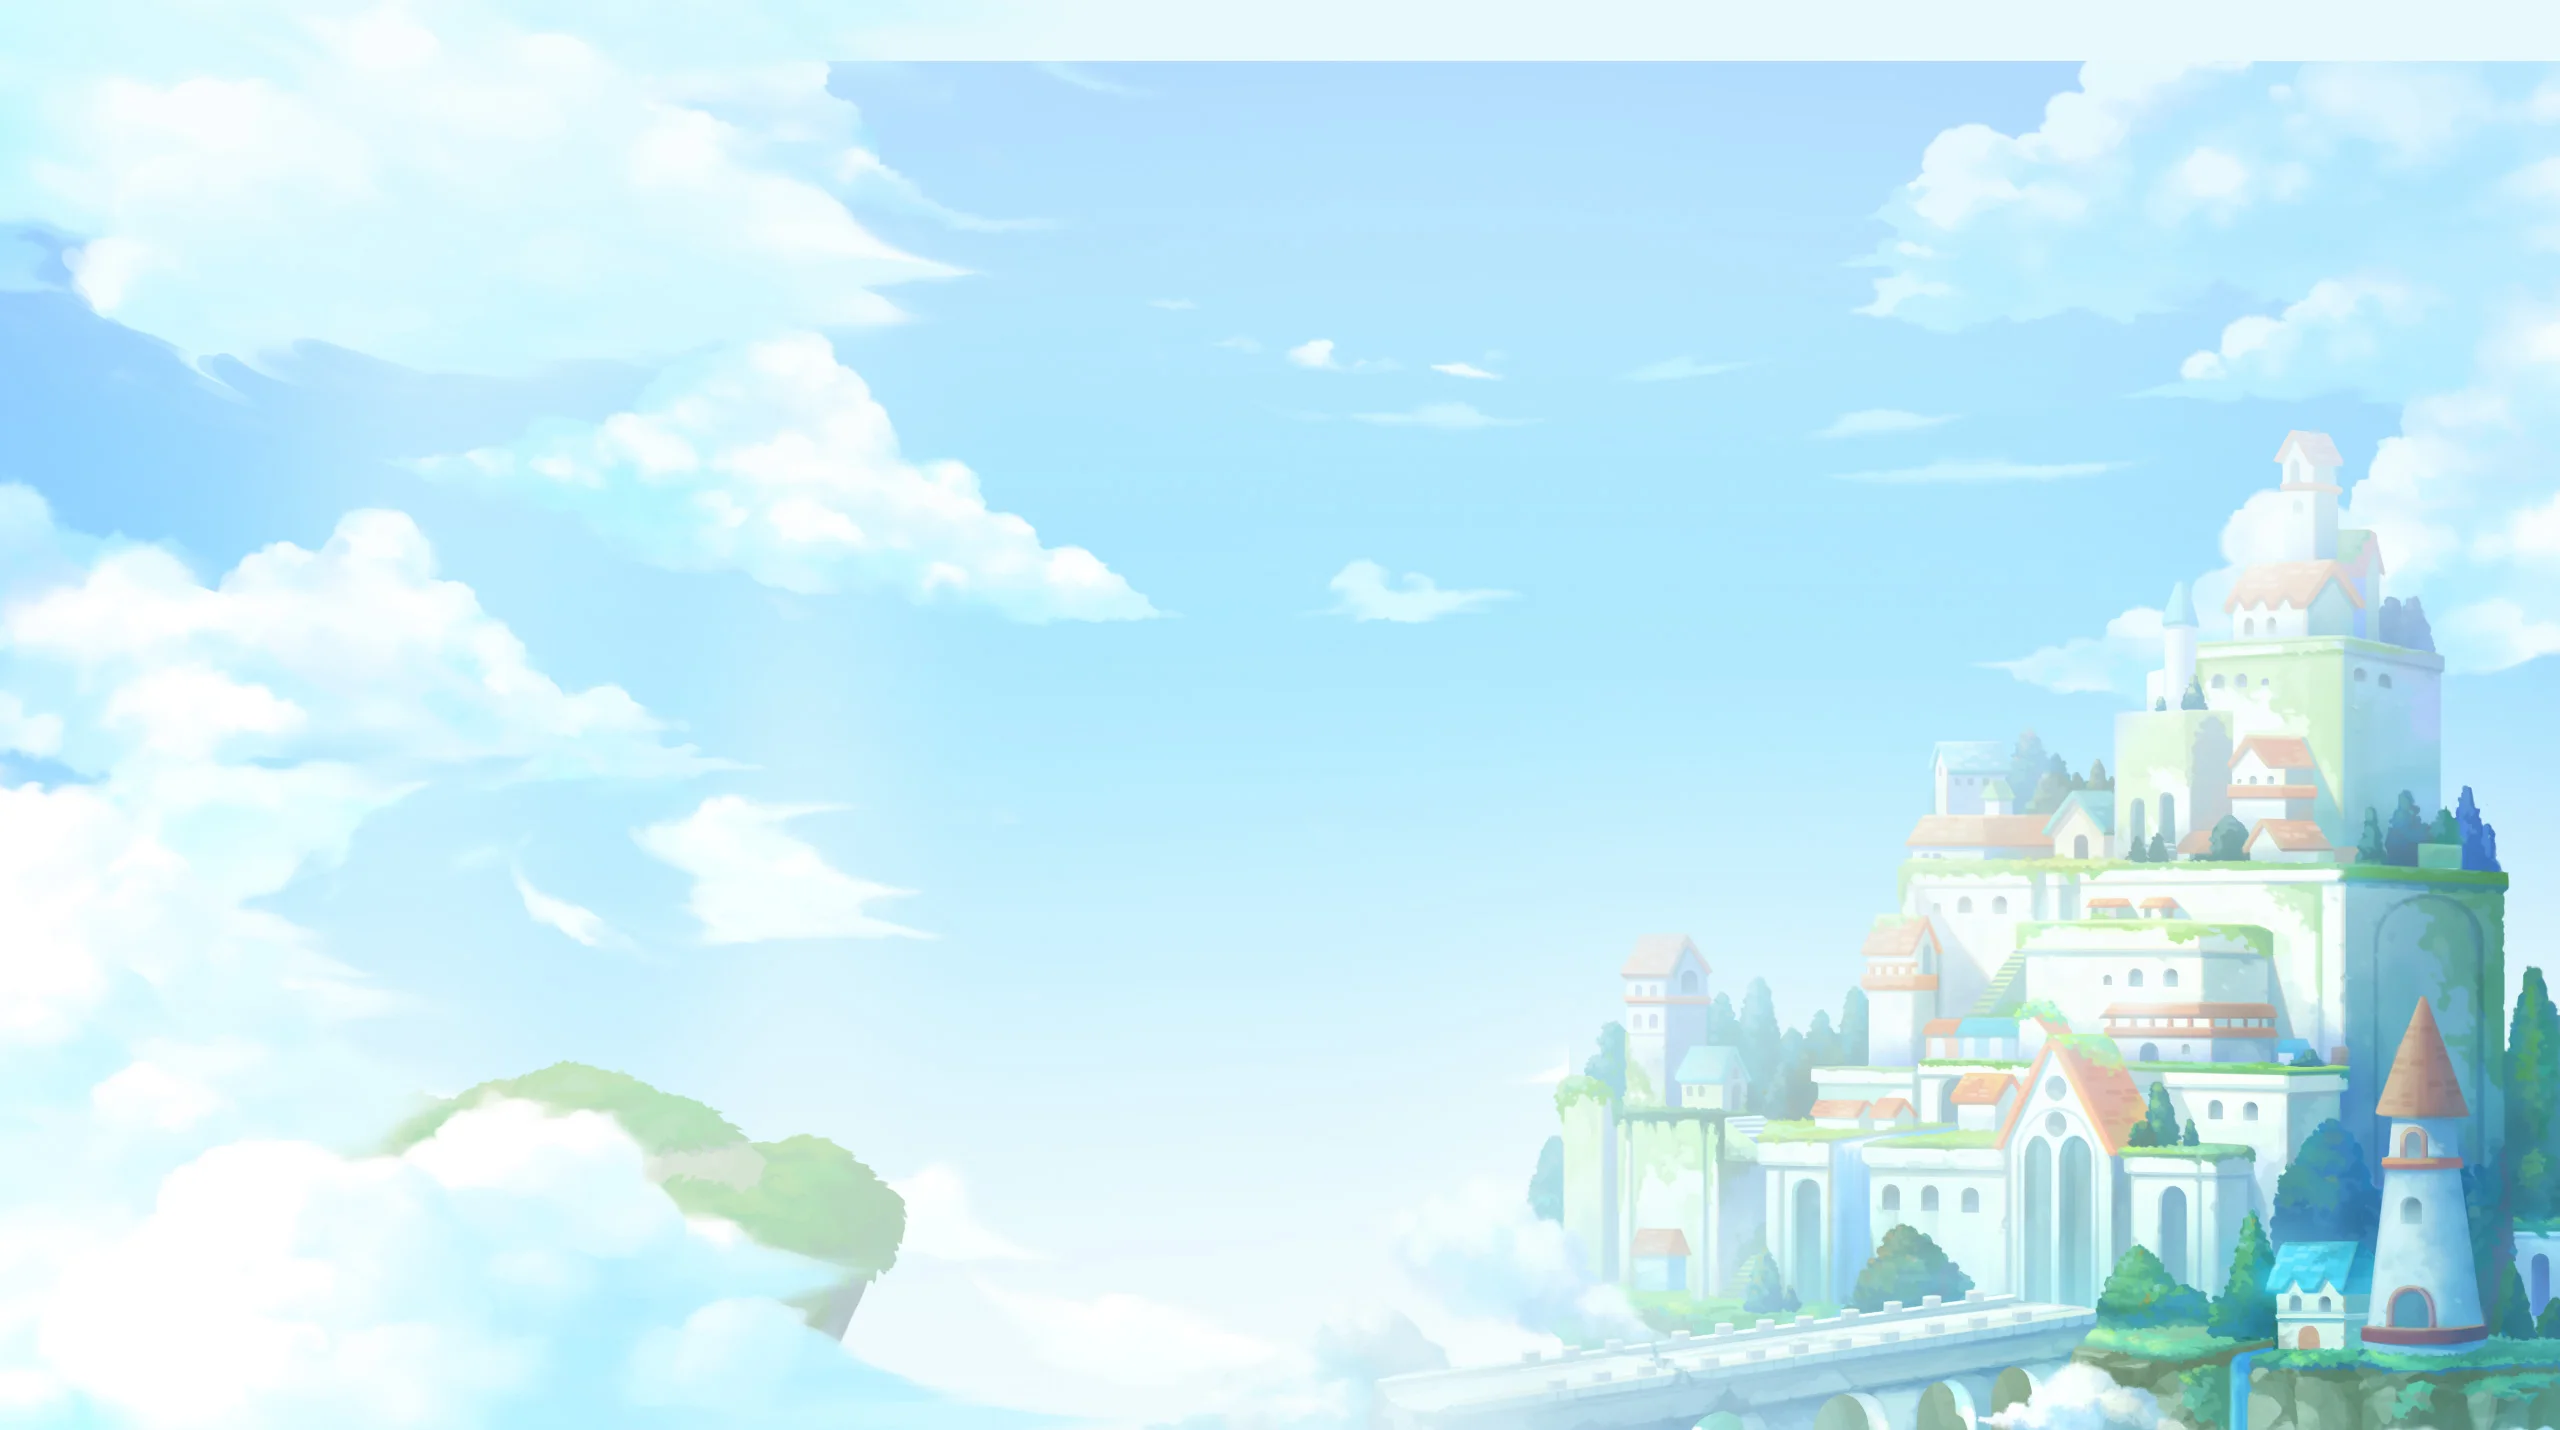
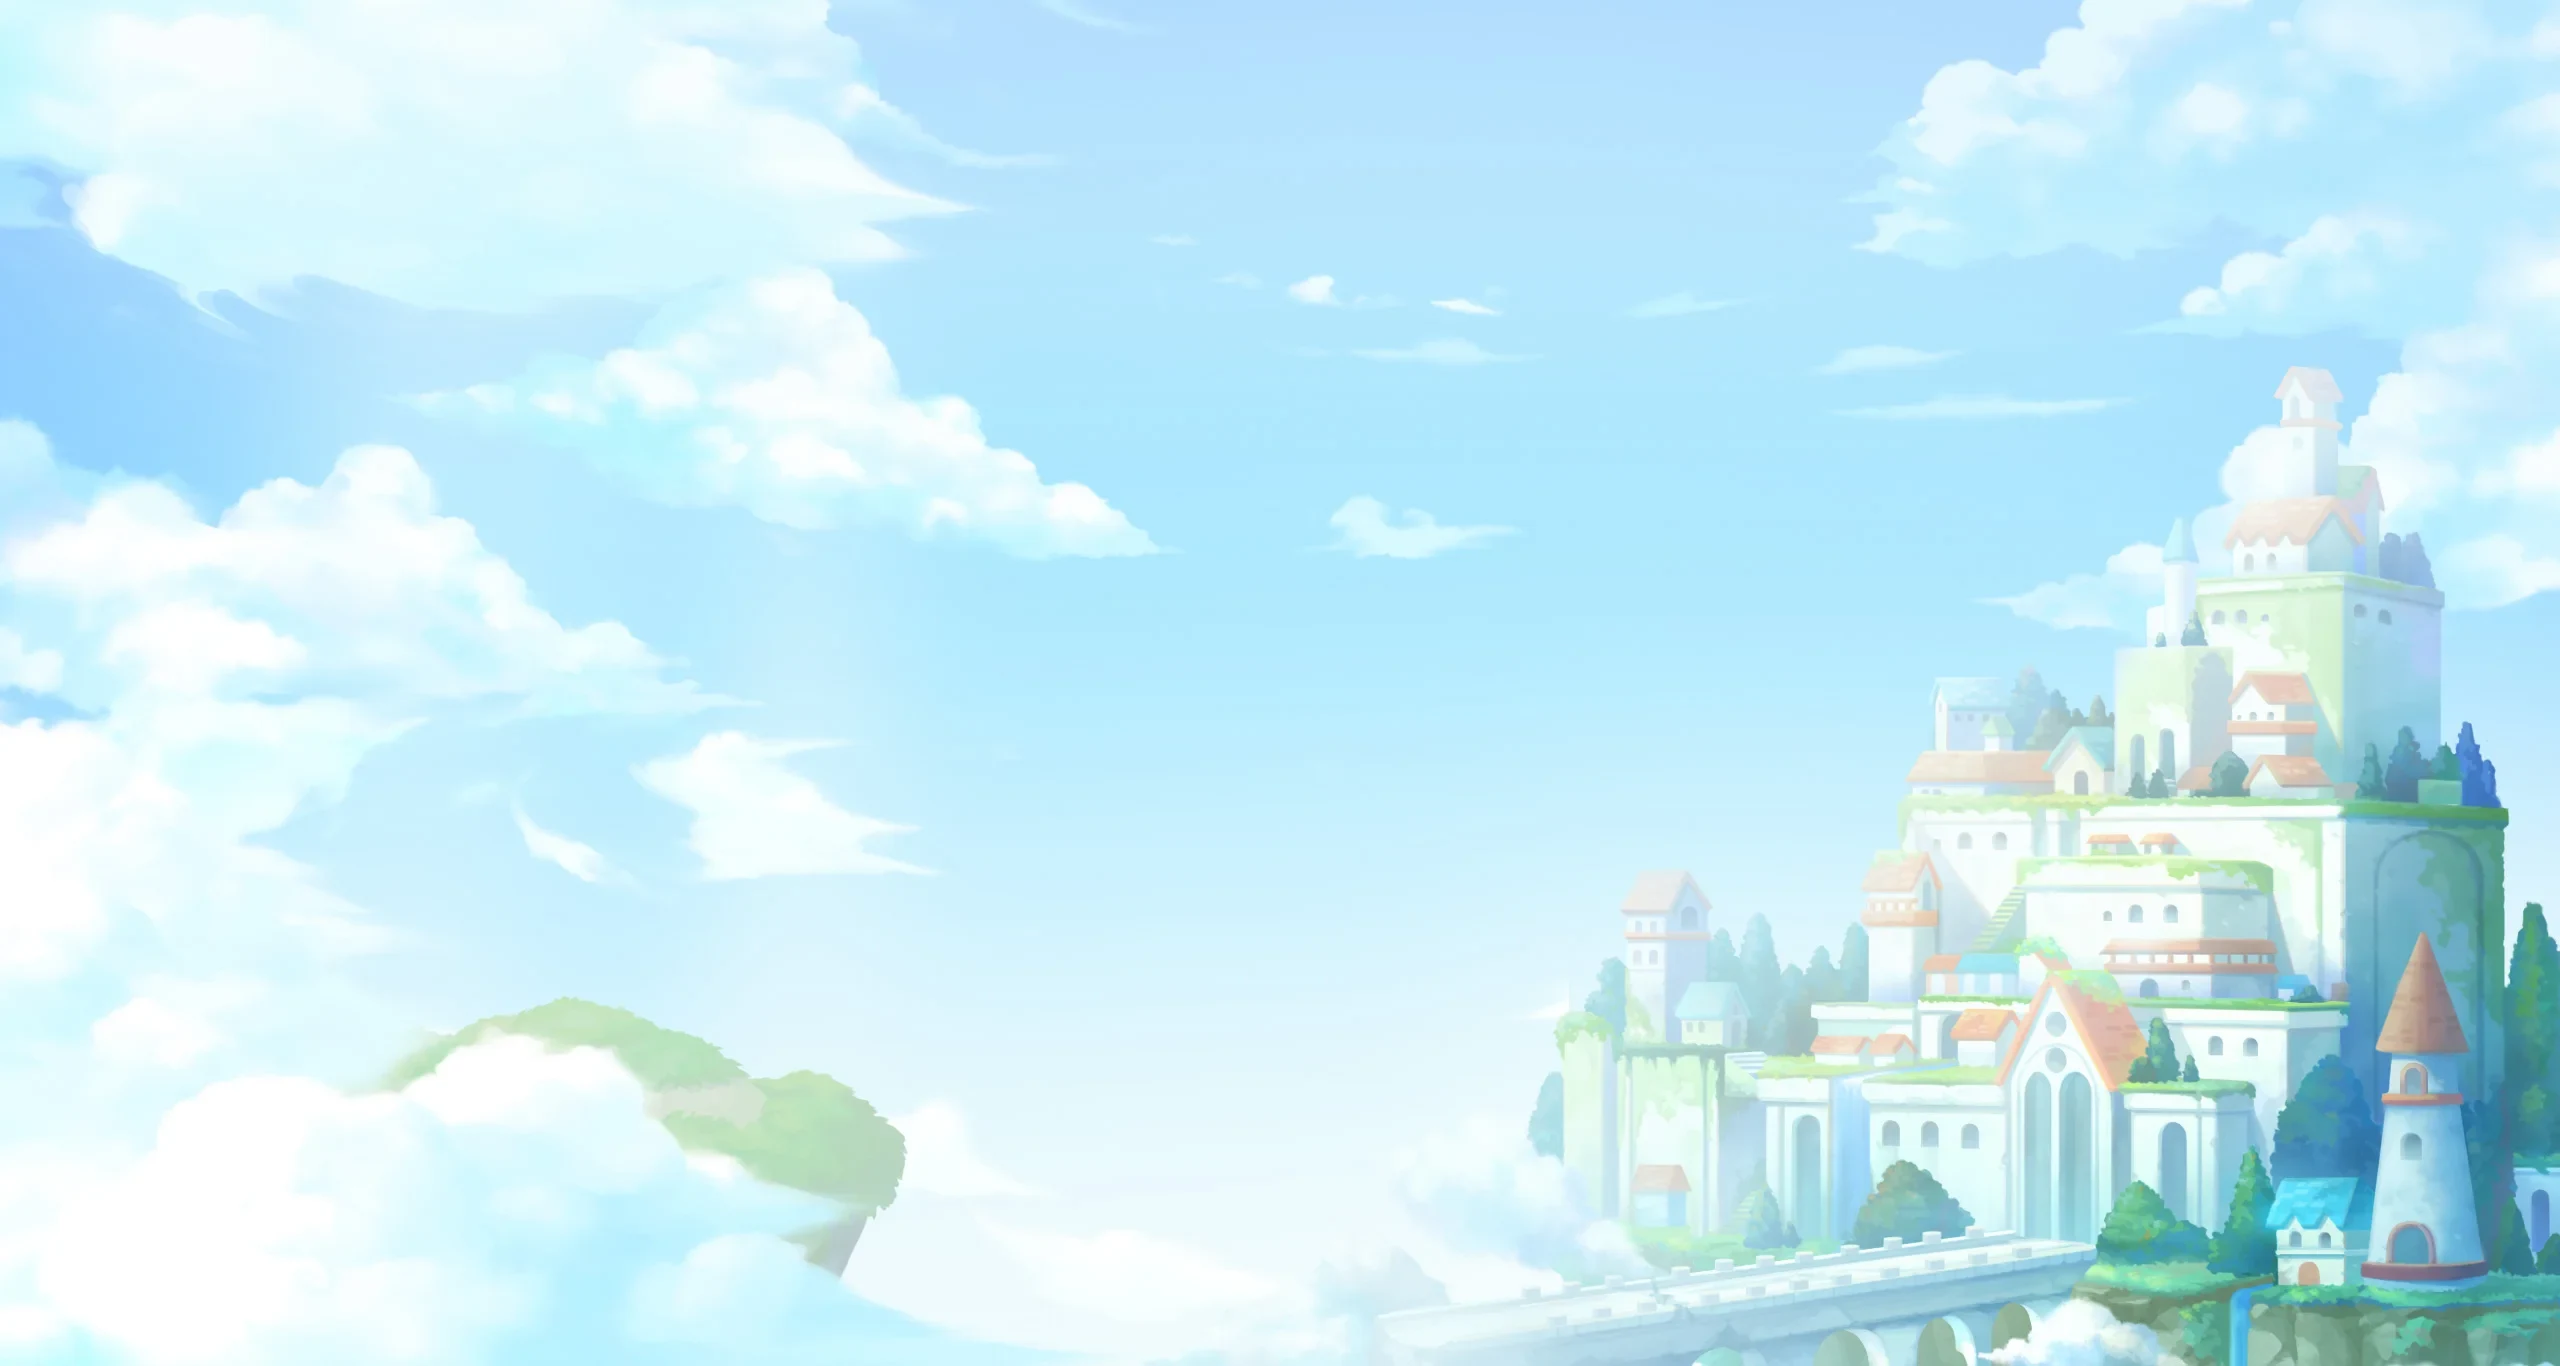
Pre-registration page: remove pale strip above intro, restyle popup close button

diff --git a/pre-register/css/pre-register.css b/pre-register/css/pre-register.css
@@ -835,21 +835,41 @@ img {
   color: #4a4266;
   font-size: 17px;
 }
+/* round purple close button sitting on the frame's corner, X drawn with two bars */
 .sp-close {
   position: absolute;
-  top: -18px;
-  right: -18px;
+  top: -22px;
+  right: -22px;
   z-index: 2;
-  transition: background 0.2s;
-  background: url(../images/ui/close.webp);
-  width: 50px;
-  height: 50px;
+  transition: transform 0.2s, background 0.2s;
+  box-shadow: 0 0 0 4px #f3c98b, 0 6px 14px rgba(40, 10, 120, 0.35);
+  border-radius: 50%;
+  background: linear-gradient(135deg, #8f40ff, #6a2fe0);
+  width: 52px;
+  height: 52px;
   overflow: hidden;
   color: transparent;
   font-size: 0;
 }
+.sp-close::before,
+.sp-close::after {
+  position: absolute;
+  top: 50%;
+  left: 50%;
+  border-radius: 2px;
+  background: #fff;
+  width: 24px;
+  height: 4px;
+  content: "";
+  translate: -50% -50%;
+  rotate: 45deg;
+}
+.sp-close::after {
+  rotate: -45deg;
+}
 .sp-close:hover {
-  background-image: url(../images/ui/close-hover.webp);
+  transform: rotate(90deg);
+  background: linear-gradient(135deg, #a55cff, #8040ff);
 }
 .sp-image-popup {
   position: relative;
@@ -861,8 +881,8 @@ img {
   width: 100%;
 }
 .sp-image-popup .sp-close {
-  top: 0;
-  right: 0;
+  top: -18px;
+  right: -18px;
 }
 .sp-fade-enter-active,
 .sp-fade-leave-active {
